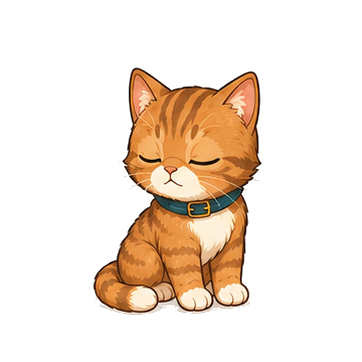
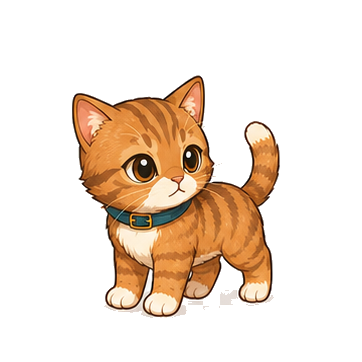
Fix walking continuity and slow patrol

Changed region(s): [[0.1823, 0.1823, 0.7901, 0.8812]]

diff --git a/CatBuddy.swift b/CatBuddy.swift
@@ -78,20 +78,29 @@ func loadSprites(prefix: String, from directory: URL) -> [NSImage] {
 func loadStableWalkSprites(from directory: URL) -> [NSImage] {
     let explicitRightFacing = loadSprites(prefix: "walk-right", from: directory)
     if !explicitRightFacing.isEmpty {
-        return explicitRightFacing
+        return pingPongFrames(explicitRightFacing)
     }
 
     let allWalkFrames = loadSprites(prefix: "walk", from: directory)
     guard allWalkFrames.count >= 8 else {
-        return allWalkFrames
+        return pingPongFrames(allWalkFrames)
     }
 
     // The first generated sheet mixed left-facing and right-facing poses.
     // Keep only the right-facing cells, then mirror them in code for left walks.
     let stableRightFacingIndexes = [2, 3, 4, 7]
-    return stableRightFacingIndexes.compactMap { index in
+    let stableFrames = stableRightFacingIndexes.compactMap { index in
         index < allWalkFrames.count ? allWalkFrames[index] : nil
     }
+    return pingPongFrames(stableFrames)
+}
+
+func pingPongFrames(_ frames: [NSImage]) -> [NSImage] {
+    guard frames.count > 2 else {
+        return frames
+    }
+
+    return frames + frames.dropLast().dropFirst().reversed()
 }
 
 func loadPetSprites() -> PetSpriteFrames {
@@ -395,8 +404,8 @@ final class PetCanvasView: NSView {
             height: 20
         )).fill()
 
-        let image = isWalking ? stableWalkFrame(for: frames) : spriteFrame(for: frames)
-        let bob = isWalking ? sin(walkPhase()) * 4 : 0
+        let image = spriteFrame(for: frames)
+        let bob = isWalking ? sin(walkPhase()) * 2 : 0
         let size = action == .sleep ? NSSize(width: 184, height: 134) : NSSize(width: 180, height: 138)
         let rect = NSRect(
             x: petPosition.x - (size.width / 2),
@@ -406,15 +415,8 @@ final class PetCanvasView: NSView {
         )
 
         if isWalking {
-            let phase = walkPhase()
-            let tilt = sin(phase) * 0.035
-            let stretchX = 1 + cos(phase * 2) * 0.018
-            let stretchY = 1 - cos(phase * 2) * 0.012
-
             ctx.saveGState()
             ctx.translateBy(x: rect.midX, y: rect.midY)
-            ctx.rotate(by: action == .walkLeft ? -tilt : tilt)
-            ctx.scaleBy(x: stretchX, y: stretchY)
             if action == .walkLeft {
                 ctx.scaleBy(x: -1, y: 1)
             }
@@ -432,12 +434,8 @@ final class PetCanvasView: NSView {
         return true
     }
 
-    private func stableWalkFrame(for frames: [NSImage]) -> NSImage {
-        frames[min(1, frames.count - 1)]
-    }
-
     private func walkPhase() -> CGFloat {
-        CGFloat(frameTick % 40) / 40 * CGFloat.pi * 2
+        CGFloat(frameTick % 80) / 80 * CGFloat.pi * 2
     }
 
     private func spriteFrame(for frames: [NSImage]) -> NSImage {
@@ -445,15 +443,15 @@ final class PetCanvasView: NSView {
         case .idle:
             return frames[loopedIndex(frameCount: frames.count, pace: 10)]
         case .lookAround:
-            return frames[pingPongIndex(frameCount: frames.count, pace: 8)]
+            return frames[pingPongIndex(frameCount: frames.count, pace: 18)]
         case .walkLeft, .walkRight:
-            return frames[loopedIndex(frameCount: frames.count, pace: 2)]
+            return frames[loopedIndex(frameCount: frames.count, pace: 5)]
         case .groom:
-            return frames[pingPongIndex(frameCount: frames.count, pace: 3)]
+            return frames[pingPongIndex(frameCount: frames.count, pace: 12)]
         case .stretch:
-            return frames[pingPongIndex(frameCount: frames.count, pace: 5)]
+            return frames[pingPongIndex(frameCount: frames.count, pace: 16)]
         case .sleep:
-            return frames[pingPongIndex(frameCount: frames.count, pace: 10)]
+            return frames[pingPongIndex(frameCount: frames.count, pace: 24)]
         }
     }
 
@@ -508,6 +506,7 @@ final class AppDelegate: NSObject, NSApplicationDelegate {
         }
     }
     private var walkDestination: NSPoint?
+    private var walkReturnDestination: NSPoint?
     private var petPosition = NSPoint(x: 110, y: 120) {
         didSet {
             petView?.petPosition = petPosition
@@ -516,7 +515,7 @@ final class AppDelegate: NSObject, NSApplicationDelegate {
         }
     }
 
-    private let walkSpeed: CGFloat = 5.5
+    private let walkSpeed: CGFloat = 3.2
 
     func applicationDidFinishLaunching(_ notification: Notification) {
         buildWindow()
@@ -587,7 +586,7 @@ final class AppDelegate: NSObject, NSApplicationDelegate {
     }
 
     private func startAnimationLoop() {
-        animationTimer = Timer.scheduledTimer(withTimeInterval: 0.04, repeats: true) { [weak self] _ in
+        animationTimer = Timer.scheduledTimer(withTimeInterval: 0.06, repeats: true) { [weak self] _ in
             self?.tick()
         }
     }
@@ -621,6 +620,7 @@ final class AppDelegate: NSObject, NSApplicationDelegate {
         mode = nextMode
         behaviorTimer?.invalidate()
         walkDestination = nil
+        walkReturnDestination = nil
 
         switch nextMode {
         case .auto:
@@ -658,7 +658,7 @@ final class AppDelegate: NSObject, NSApplicationDelegate {
             action = .lookAround
             maybeAutoMeow(chance: 0.08)
             scheduleNextBehavior(after: Double.random(in: 3.8 ... 5.8))
-        } else if roll < 0.60 {
+        } else if roll < 0.68 {
             startWalk()
         } else if roll < 0.78 {
             action = .groom
@@ -753,8 +753,15 @@ final class AppDelegate: NSObject, NSApplicationDelegate {
         if distance <= walkSpeed {
             petPosition = destination
             walkDestination = nil
-            action = Bool.random() ? .lookAround : .groom
-            scheduleNextBehavior(after: Double.random(in: 3.8 ... 6.8))
+
+            if let returnDestination = walkReturnDestination {
+                walkReturnDestination = nil
+                action = .idle
+                scheduleReturnWalk(to: returnDestination)
+            } else {
+                action = .idle
+                scheduleNextBehavior(after: Double.random(in: 3.8 ... 6.8))
+            }
             return
         }
 
@@ -778,21 +785,40 @@ final class AppDelegate: NSObject, NSApplicationDelegate {
             preferRight = Bool.random()
         }
 
-        let maxHorizontalDistance = max(320, min(980, bounds.width * 0.85))
+        let maxHorizontalDistance = max(320, min(900, bounds.width * 0.72))
         let minHorizontalDistance = min(320, maxHorizontalDistance)
         let desiredDistance = CGFloat.random(in: minHorizontalDistance ... maxHorizontalDistance)
-        let destinationY = CGFloat.random(in: bounds.minY ... bounds.maxY)
+        let destinationY = current.y
 
         if preferRight {
             let travel = min(desiredDistance, availableRight)
             let destinationX = min(current.x + max(220, travel), bounds.maxX)
-            walkDestination = NSPoint(x: destinationX, y: destinationY)
-            action = .walkRight
+            startWalk(to: NSPoint(x: destinationX, y: destinationY), returnTo: current)
         } else {
             let travel = min(desiredDistance, availableLeft)
             let destinationX = max(current.x - max(220, travel), bounds.minX)
-            walkDestination = NSPoint(x: destinationX, y: destinationY)
-            action = .walkLeft
+            startWalk(to: NSPoint(x: destinationX, y: destinationY), returnTo: current)
+        }
+    }
+
+    private func startWalk(to destination: NSPoint, returnTo returnDestination: NSPoint? = nil) {
+        let clampedDestination = clampedPetPosition(destination)
+        walkDestination = clampedDestination
+        walkReturnDestination = returnDestination
+        action = clampedDestination.x >= petPosition.x ? .walkRight : .walkLeft
+    }
+
+    private func scheduleReturnWalk(to destination: NSPoint) {
+        behaviorTimer?.invalidate()
+        guard mode == .auto else {
+            return
+        }
+
+        behaviorTimer = Timer.scheduledTimer(withTimeInterval: 0.9, repeats: false) { [weak self] _ in
+            guard let self = self, self.mode == .auto else {
+                return
+            }
+            self.startWalk(to: destination)
         }
     }
 